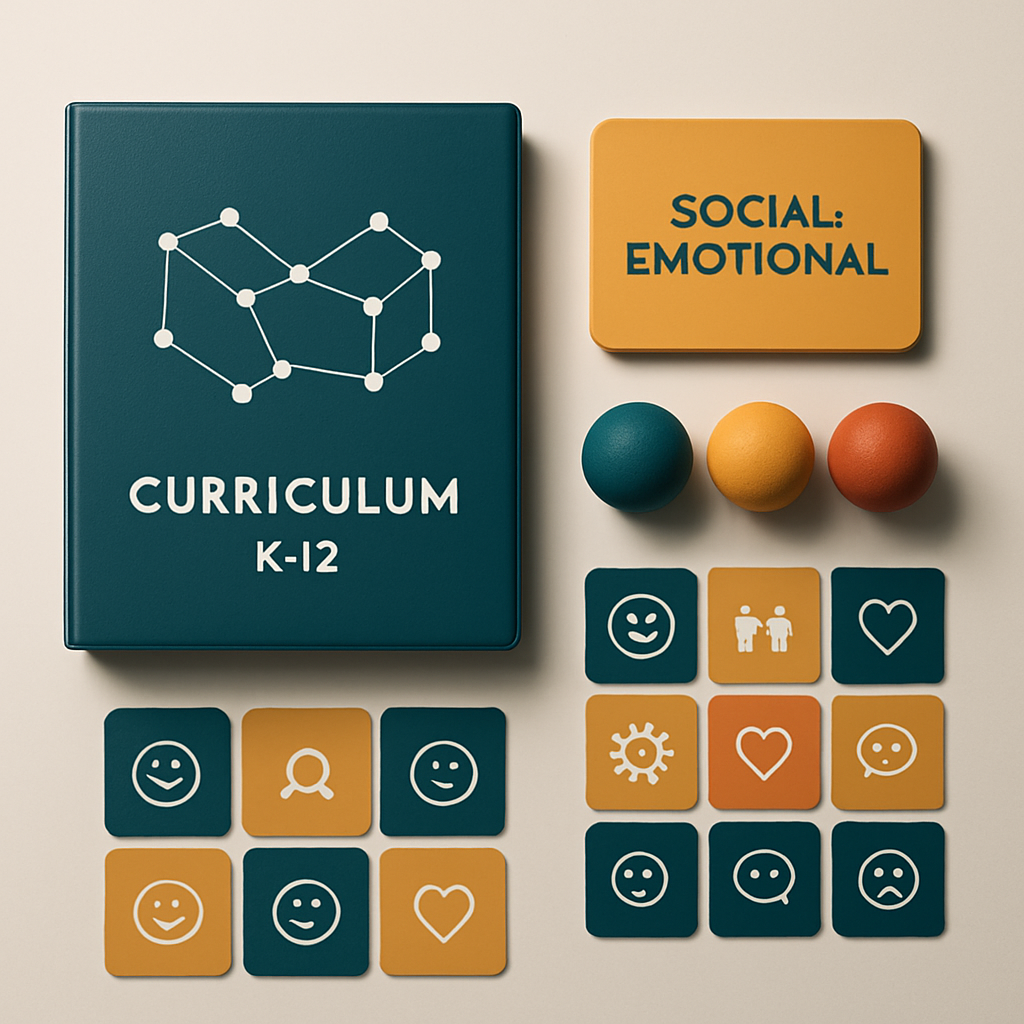
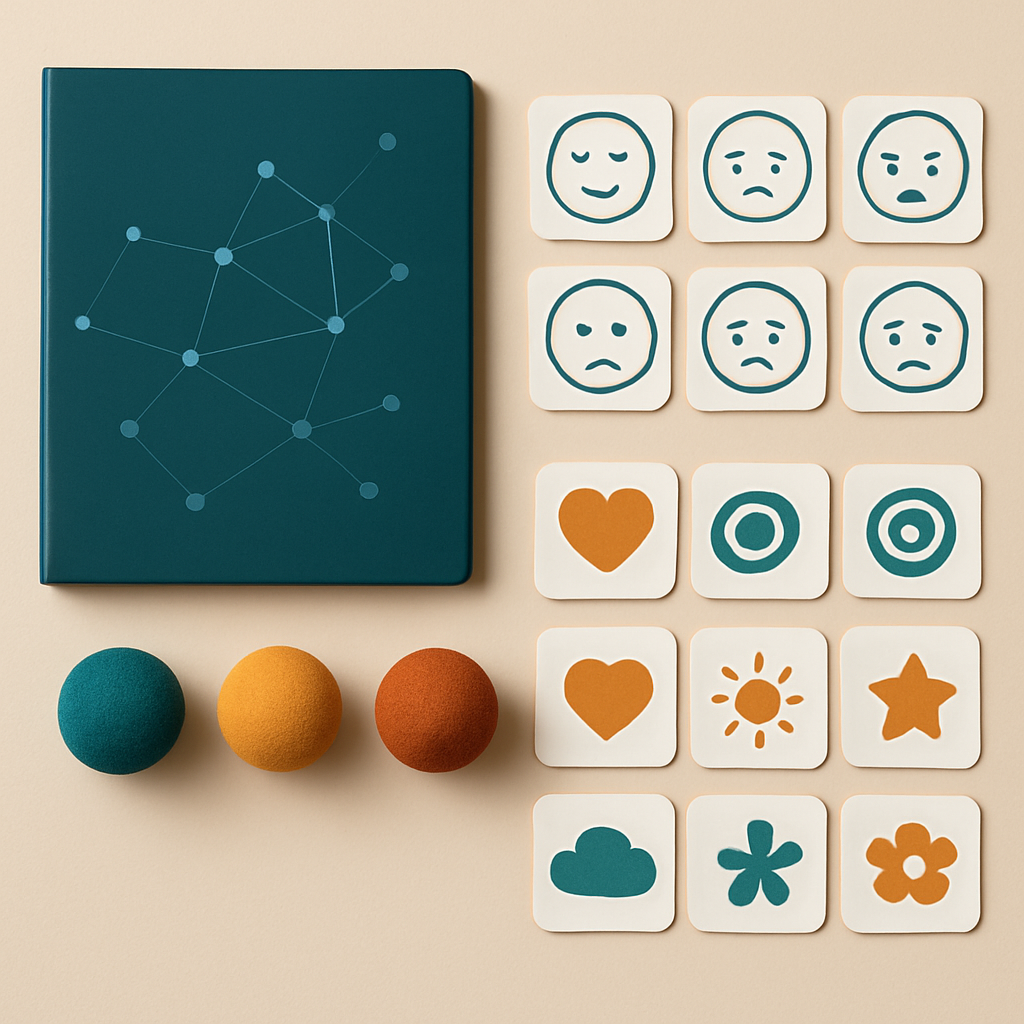
feat: update product CTA and add contact link
Updated product CTA button to link to contact page instead of product buy URL.

diff --git a/app/shop/page.tsx b/app/shop/page.tsx
@@ -1,5 +1,6 @@
 import type { Metadata } from "next"
 import Image from "next/image"
+import Link from "next/link"
 import { PageHeader } from "@/components/page-header"
 import { CtaSection } from "@/components/cta-section"
 import { products } from "@/lib/products"
@@ -74,13 +75,11 @@ export default function ShopPage() {
                     <div className="mt-auto pt-2">
                       <Button
                         nativeButton={false}
-                        render={
-                          <a href={product.buyUrl} target="_blank" rel="noopener noreferrer" />
-                        }
+                        render={<Link href="/contact-us" />}
                         size="lg"
                         className="w-full sm:w-auto"
                       >
-                        {product.cta}
+                        To inquire about purchasing please contact us
                       </Button>
                     </div>
                   </div>